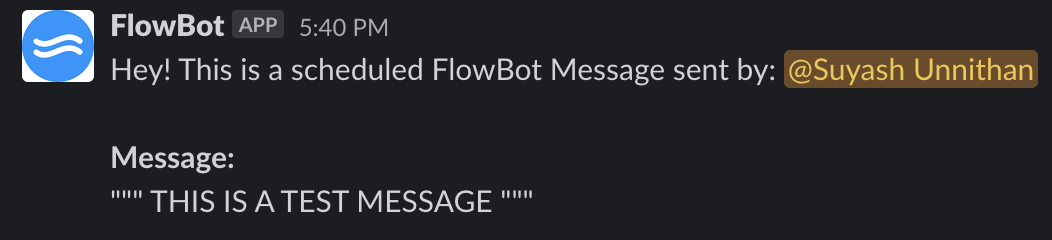
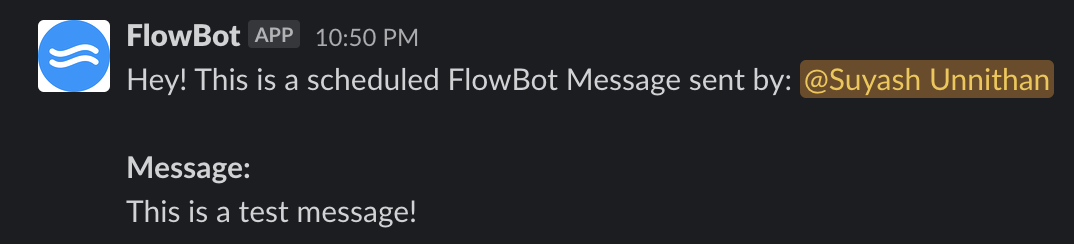
Added session

Changed region(s): [[0.0, 0.0292, 1.0, 0.4083], [0.0913, 0.7875, 0.5171, 0.9333], [0.0913, 0.6125, 0.2433, 0.7583]]

diff --git a/src/app.js b/src/app.js
@@ -10,6 +10,8 @@ const moment = require('moment');
 const chrono = require('chrono-node');
 const dedent = require('dedent-js');
 
+var message_sessions = {};
+
 
 rtm.start()
     .catch(console.error);
@@ -41,7 +43,7 @@ async function sendMessageNow(channel, message) {
 
 // Function that sends message at posted time
 async function sendMessageLater(channel, message, time) {
-    try {
+    try{
         await web.chat.scheduleMessage({
             channel: channel,
             text: message,
@@ -51,7 +53,7 @@ async function sendMessageLater(channel, message, time) {
         })
     }
     catch(e) {
-        console.error(e);
+        throw e;
     }
 }
 
@@ -83,69 +85,34 @@ async function checkUserExists(user) {
 } 
 
 async function handleMessage(event) {
-    var message;
-    var send_date;
-    var reciever;
-    var incorrect_time = false;
-    var non_existent_user = false;
-    if (event.text == '!start' || event.text == '!restart') {
-        // Start Command
-        message = 'Hey! Who would you like to message?';
+    var session_existence = get_existence(event.user);
+    var session;
+    var user_id = event.user;
+    var message = "";
+    var message_needed = false;
+
+    if (session_existence) {
+        session = get_session(user_id);
+    }
+
+    if (!session_existence && event.text == '!start') {
+        create_session(user_id, event);
     }
     else if (event.text == '!help') {
-        // Help Command
-        message = `Welcome to FlowBot! FlowBot allows you to schedule your messages such that you don't interrupt and break your co-worker's state of flow. To get started, type *!start* . If you want to restart, simply input *!restart* .`;
+        message = `Welcome to FlowBot! FlowBot allows you to schedule your messages such that you don't interrupt and break your co-worker's state of flow. To get started, type *!start* . If you want to restart, simply input *!restart* . If you decide that you want to end your flowbot session early, enter *!end*.`;
+        message_needed = true;
     }
-    else if (event.text.includes("<@") && event.text.includes(">")) {
-        // Process the reciepient and see if they exist in the workspace
-        const user_id = event.text.substr(2, event.text.length - 3);
-        const exists = checkUserExists(user_id);
-
-        if (exists) {
-            message = dedent`Enter the message you wanted to send them. Include the message within triple quotations (""") to help me better read it.
-        
-            ex. 
-            """ Sample message """`;
-        }
-        else {
-            message = "Unknown user. Please re-enter a valid user or type *!help* to get help.";
-        }
-    }
-    else if (event.text.includes('"""')) {
-        // Get message body command
-        message = dedent`How long from now would you like me to send this message?
-        
-        ex. 
-        25 minutes from now`;
+    else if (session_existence) {
+        handle_session(session, event);
     }
     else {
-        try {
-            // Try to send scheduled message
-            send_date = get_datetime_object(event.text);
-            const message_details = await find_message_and_reciever(event.channel);
-            var ts = Math.round(send_date.getTime() / 1000);
-
-            var formatted_message = dedent(`
-            Hey! This is a scheduled FlowBot Message sent by: <@${event.user}>
-                
-            *Message:*
-            ${message_details['message']}
-            `);
-
-            sendMessageLater(message_details['reciever'], formatted_message, ts);
-            message = 'Your message will be sent!';
-            console.log({
-                message: formatted_message,
-                timestamp: ts
-            });
-            
-        } catch(e) {
-            // There is no scheduled message and instead, this is an unknown command
-            console.log(e);
-            message = "Unknown command! To get help, simply input *!help* or to start, input *!start* .'";
-        }
+        message = "Unknown command! To get help, simply input *!help* or to start, input *!start* .";
+        message_needed = true;
     }
-    sendMessageNow(event.channel, message);
+
+    if (message_needed) {
+        sendMessageNow(event.channel, message);
+    }
 }
 
 // NLP Library that parses date from string
@@ -155,14 +122,121 @@ function get_datetime_object(message) {
     return get_date;
 }
 
-// Function to find send_message and reciever
-async function find_message_and_reciever(channel) {
-    const history = (await getChatHistory(channel, 5))['messages'];
-    var reciever_raw = history[4].text
-    var reciever_clean = reciever_raw.substr(2, reciever_raw.length - 3)
-    const message_details = {
-        message: history[2].text,
-        reciever: reciever_clean
-    };
-    return message_details;
+function get_existence(user_id) {
+    if (message_sessions.hasOwnProperty(user_id)){
+        return true;
+    }
+    return false;
+}
+
+function get_session(user_id) {
+    return message_sessions[user_id];
+}
+
+function create_session(user_id, event) {
+    var session = {
+        step: 0,
+        message: "",
+        reciever: "",
+        send_time: 0,
+    }
+
+    message_sessions[user_id] = session;
+    handle_session(message_sessions[user_id], event);
+}
+
+async function delete_session(user_id) {
+    delete message_sessions[user_id];
+}
+
+async function handle_session(session, event) {
+    // Session Guidelines:
+    // step == 0 - user has just entered !start
+    // step == 1 - user must now enter who they would like to message
+    // step == 2 - user must enter the message they would like to send
+    // step == 3 - user must enter the time they want to send the message
+    // step == 4 - user has supplied all information, message will be scheduled, session object will be removed, session destroyed
+    // event.text == "!restart" - step goes back to 0 and all other values are reset
+    // event.text == "!end" - ends session
+
+    var message;
+
+    if (event.text == "!end") {
+        await delete_session(user_id);
+        message = "I just ended your FlowBot session! To get started again, please enter *!start* or type in *!help* to learn how to use me!" ;
+    }
+
+    if (event.text == "!restart") {
+        session.step = 0;
+        session.message = "";
+        session.reciever = "";
+        session.send_time = 0;
+    }
+    
+    if (session.step == 0) {
+        message = 'Hey! Who would you like to message?';
+        session.step = 1;
+    }
+    else if (session.step == 1) {
+        //Process the reciepient and see if they exist in the workspace
+        const user_id = event.text.substr(2, event.text.length - 3);
+        const exists = await checkUserExists(user_id);
+
+        if (exists) {
+            message = dedent`What did you want to say to them?
+        
+            ex. 
+            Hey, I was just wondering if you were available for a quick call on Friday?`;
+            session.reciever = user_id;
+            session.step = 2;
+        }
+        else {
+            message = "I'm not sure I understand. You can start by typing *@* to see a list of users to message. For more information use the *!help* command.";
+        }
+    }
+    else if (session.step == 2) {
+        message = dedent`How long from now would you like me to send this message?
+            ex. 
+            25 minutes from now`;
+        session.message = event.text;
+        session.step = 3;
+    }
+    else if (session.step == 3) {
+        try {
+            session.send_time = get_datetime_object(event.text);
+            session.send_time = Math.round(session.send_time.getTime() / 1000);
+            session.step = 4;
+        }
+        catch(e) {
+            message = dedent`I am having trouble undertsanding the time that you provided. Could you try again?
+            ex.
+            1 minute from now`
+        }
+    }
+
+    if (session.step == 4) {
+        try {
+            var formatted_message = dedent(`
+                Hey! This is a scheduled FlowBot Message sent by: <@${event.user}>
+                    
+                *Message:*
+                ${session.message}`
+            );
+
+            await sendMessageLater(session.reciever, formatted_message, session.send_time);
+            message = 'Your message will be sent!';
+            console.log(session);
+
+            await delete_session(event.user);
+        }
+        catch(e) {
+            console.log(e);
+            const error_name = e.data.error;
+            if (error_name == 'time_in_past') {
+                message = 'The time you entered was either in the past or too close to the current time. Please re-enter a new time.';
+                session.step = 3;
+            }
+        }
+    }
+    sendMessageNow(event.channel, message);
 }
